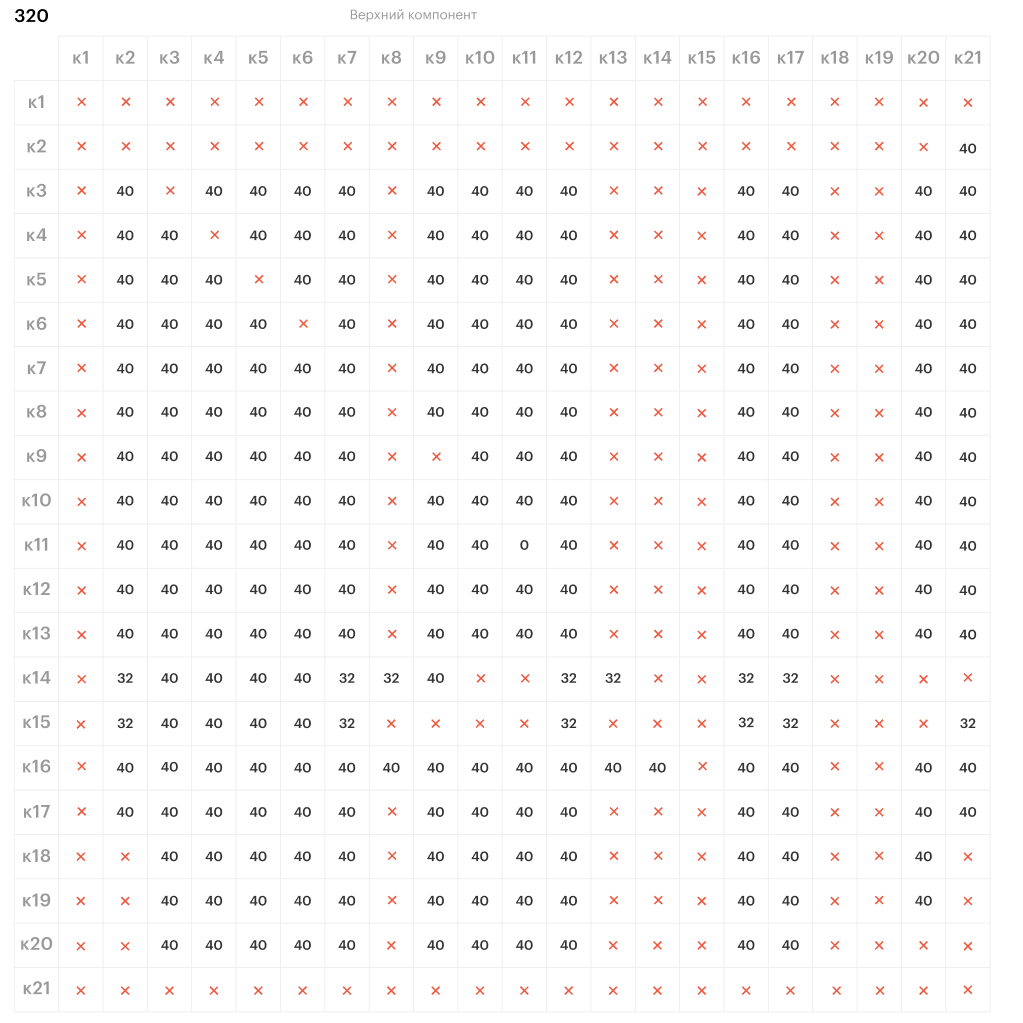
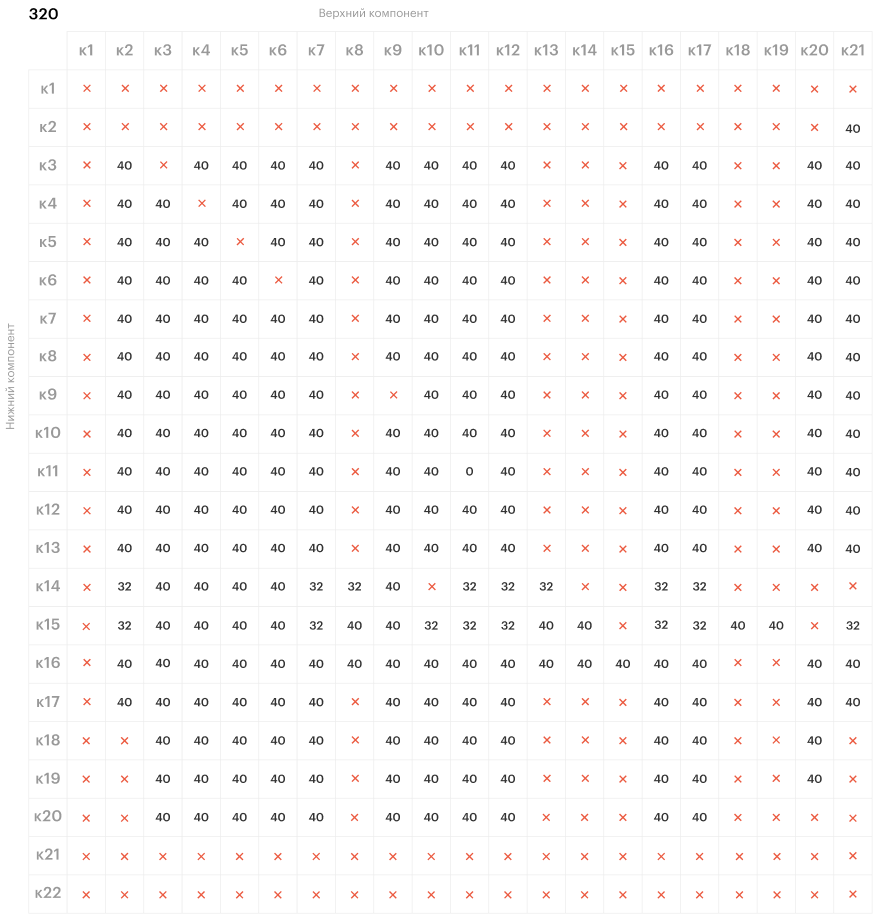
feat(container): add new indents to child components

diff --git a/packages/ui-shared/src/components/Container/Container.less b/packages/ui-shared/src/components/Container/Container.less
@@ -212,23 +212,15 @@
 
     // k8(tabs-box)
 
-    @{k8} + @{k14} {
-        margin-top: @big;
+    .generateComponentsMargins(@big, @k8, 14, 15);
+    .generateComponentsMargins(@large, @k8, 16, 16);
 
-        @media @mobileSM {
-            margin-top: @small;
-        }
+    @media @mobileB {
+        .generateComponentsMargins(@big, @k8, 16, 16);
     }
-
-    @{k8} + @{k16} {
-        margin-top: @large;
-
-        @media @mobileB {
-            margin-top: @big;
-        }
-        @media @mobileSM {
-            margin-top: @medium;
-        }
+    @media @mobileSM {
+        .generateComponentsMargins(@small, @k8, 14, 14);
+        .generateComponentsMargins(@medium, @k8, 15, 16);
     }
 
     .generateInnerTabsMargins(@big, 3, 13);
@@ -245,35 +237,34 @@
 
     // k9(partners)
 
-    @{k9} + @{k14} {
-        margin-top: @big;
-    }
-
-    .generateComponentsMargins(@large, @k9, 3, 20);
+    .generateComponentsMargins(@large, @k9, 3, 8);
+    .generateComponentsMargins(@large, @k9, 10, 13);
+    .generateComponentsMargins(@big, @k9, 14, 14);
+    .generateComponentsMargins(@small, @k9, 15, 15);
+    .generateComponentsMargins(@large, @k9, 16, 20);
 
     @media @mobileB {
-        .generateComponentsMargins(@big, @k9, 3, 20);
+        .generateComponentsMargins(@big, @k9, 3, 8);
+        .generateComponentsMargins(@big, @k9, 10, 20);
     }
     @media @mobileSM {
-        .generateComponentsMargins(@medium, @k9, 3, 20);
-    }
-
-    @{k9} + @{k9},
-    @{k9} + @{k15} {
-        .disableMarginTop();
+        .generateComponentsMargins(@medium, @k9, 3, 8);
+        .generateComponentsMargins(@medium, @k9, 10, 20);
     }
 
     // k10(instructions)
 
-    .generateComponentsMargins(@large, @k10, 3, 20);
+    .generateComponentsMargins(@large, @k10, 3, 13);
+    .generateComponentsMargins(@small, @k10, 15, 15);
+    .generateComponentsMargins(@large, @k10, 16, 20);
 
-    @media @mobile {
-        .generateComponentsMargins(@big, @k10, 3, 20);
+    @media @mobileB {
+        .generateComponentsMargins(@big, @k10, 3, 13);
+        .generateComponentsMargins(@big, @k10, 16, 20);
     }
-
-    @{k10} + @{k14},
-    @{k10} + @{k15} {
-        .disableMarginTop();
+    @media @mobileSM {
+        .generateComponentsMargins(@medium, @k10, 3, 13);
+        .generateComponentsMargins(@medium, @k10, 16, 20);
     }
 
     // k11(property)
@@ -316,19 +307,15 @@
 
     // k13(accordion-box)
 
-    @{k13} + @{k14} {
-        margin-top: @small;
+    .generateComponentsMargins(@small, @k13, 14, 14);
+    .generateComponentsMargins(@big, @k13, 15, 15);
+    .generateComponentsMargins(@large, @k13, 16, 16);
+
+    @media @mobileB {
+        .generateComponentsMargins(@big, @k13, 16, 16);
     }
-
-    @{k13} + @{k16} {
-        margin-top: @large;
-
-        @media @mobileB {
-            margin-top: @big;
-        }
-        @media @mobileSM {
-            margin-top: @medium;
-        }
+    @media @mobileSM {
+        .generateComponentsMargins(@medium, @k13, 15, 16);
     }
 
     // k14(button-link-box)
@@ -379,6 +366,22 @@
     @media @mobileSM {
         .generateComponentsMargins(@medium, @k17, 3, 20);
         .generateComponentsMargins(@small, @k17, 14, 15);
+    }
+
+    // k18(store-banner)
+
+    .generateComponentsMargins(@big, @k18, 15, 15);
+
+    @media @mobileSM {
+        .generateComponentsMargins(@medium, @k18, 15, 15);
+    }
+
+    // k19(button-banner)
+
+    .generateComponentsMargins(@big, @k19, 15, 15);
+
+    @media @mobileSM {
+        .generateComponentsMargins(@medium, @k19, 15, 15);
     }
 
     // k20(steps)
